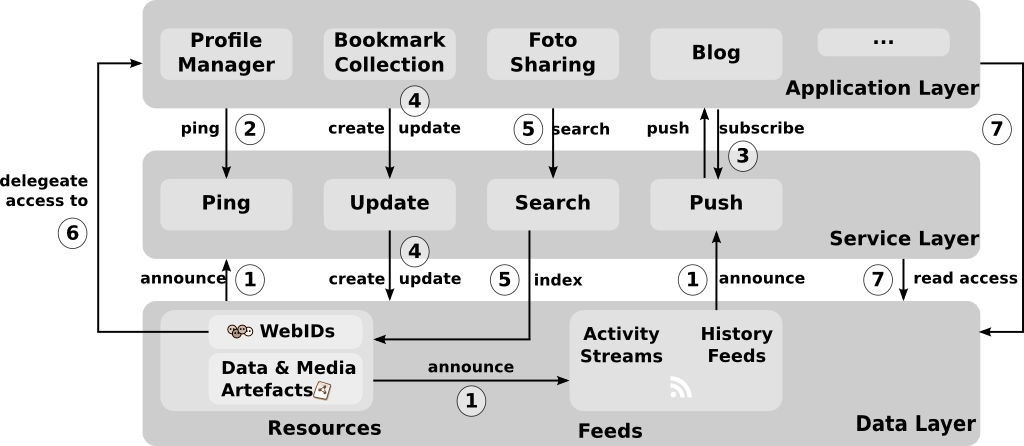
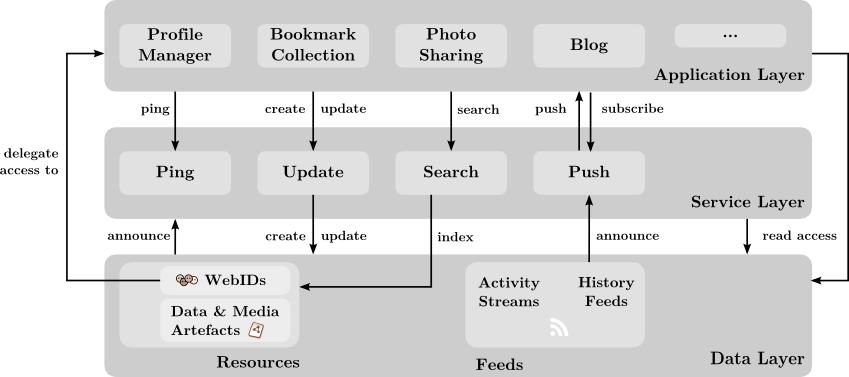
add Contributions depiction, remove numbers on Architecture2

diff --git a/2014-10-27-Defense/index.html b/2014-10-27-Defense/index.html
@@ -545,13 +545,17 @@
     </div>
     <div class="step slide front" data-x="1300" data-y="3600" data-z="0">
         <h1>Contributions</h1>
-        <ul>
+        <figure>
+            <a href="img/Contributions.svg"><img alt="Architecture" class="width100" src="img/Contributions.png"></a>
+            <!-- <figcaption>In: S.Tramp et al.: <a href="http://www.semantic-web-journal.net/content/architecture-distributed-semantic-social-network">An Architecture of a Distributed Semantic Social Network</a>, Semantic Web Journal, Special Issue "The Personal Social Semantic Web", 2012</figcaption> -->
+        </figure>
+        <!--ul>
             <li>Overall Architecture</li>
             <li>Data Layer: DSSN schema, History feeds</li>
             <li>Protocol Layer: Semantic Pingback, WebID Access Delegation</li>
             <li>Service Layer: Ping Service</li>
             <li>Application Layer: xOperator, Mobile Social Semantic Web Client, OntoWiki DSSN</li>
-        </ul>
+        </ul-->
     </div>
 
     <div class="step slide" data-x="1300" data-y="3600" data-z="-1000">
@@ -563,9 +567,10 @@
     </div>
 
     <div class="step slide" data-x="1300" data-y="3600" data-z="-2000">
-        <h1>LUCID: Linked valUe ChaIn Data</h1>
+        <h1>LUCID</h1>
         <figure>
             <a href="img/FutureWork-LUCID.png"><img alt="LUCID diagram" class="width80" src="img/FutureWork-LUCID.png"></a>
+            <figcaption>In: <a href="http://lucid-projekt.de">LUCID: Linked valUe ChaIn Data</a>, Semantische Informationsflüsse in verteilten Wertschöpfungsnetzen, Vorhabenbeschreibung, Fördermaßnahme „KMU-Innovationsoffensive IKT“</figcaption>
         </figure>
     </div>
 

diff --git a/2014-10-27-Defense/todos.md b/2014-10-27-Defense/todos.md
@@ -36,7 +36,3 @@
 - 1280x1024
 - Details (webid auth + Semantic Pingback) in grafik annotieren
 
-- Architektur: Zahlen raus, überlastet das Auge
-
-- Contributions grafik verbessern
-
